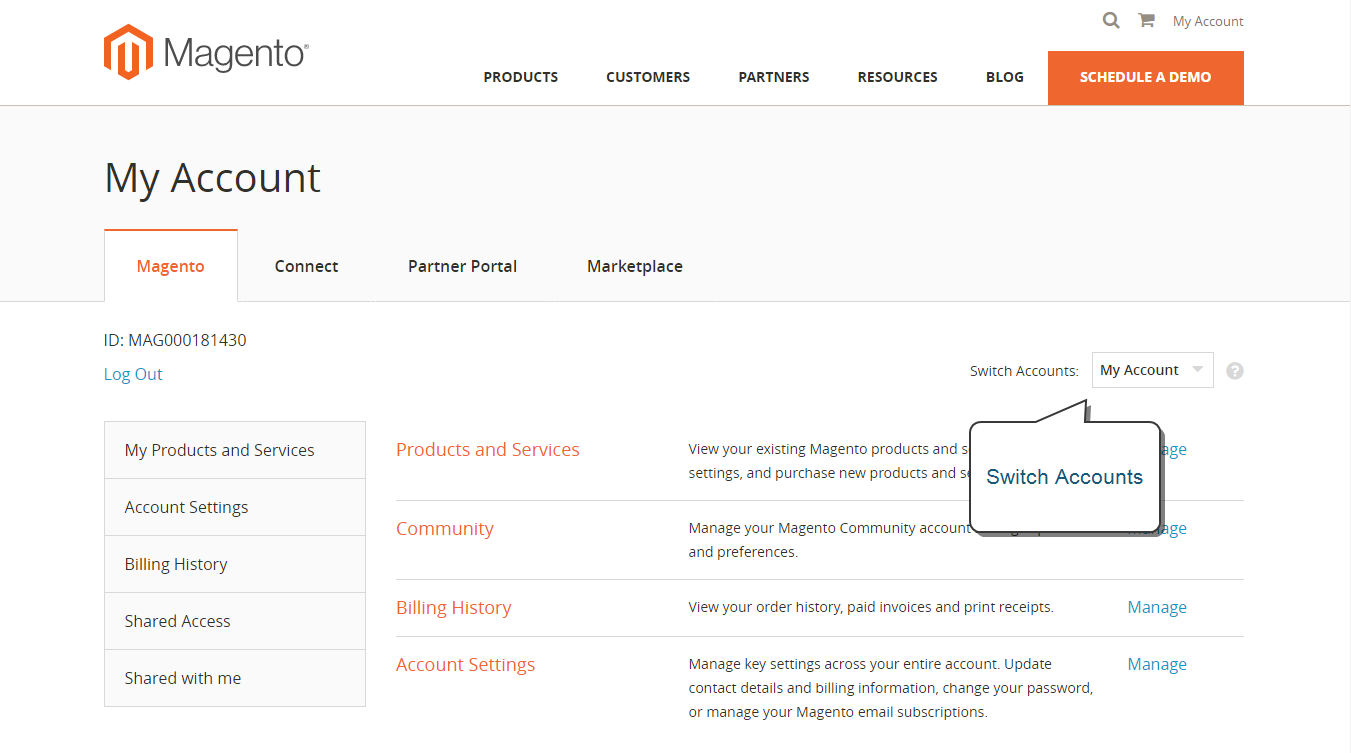
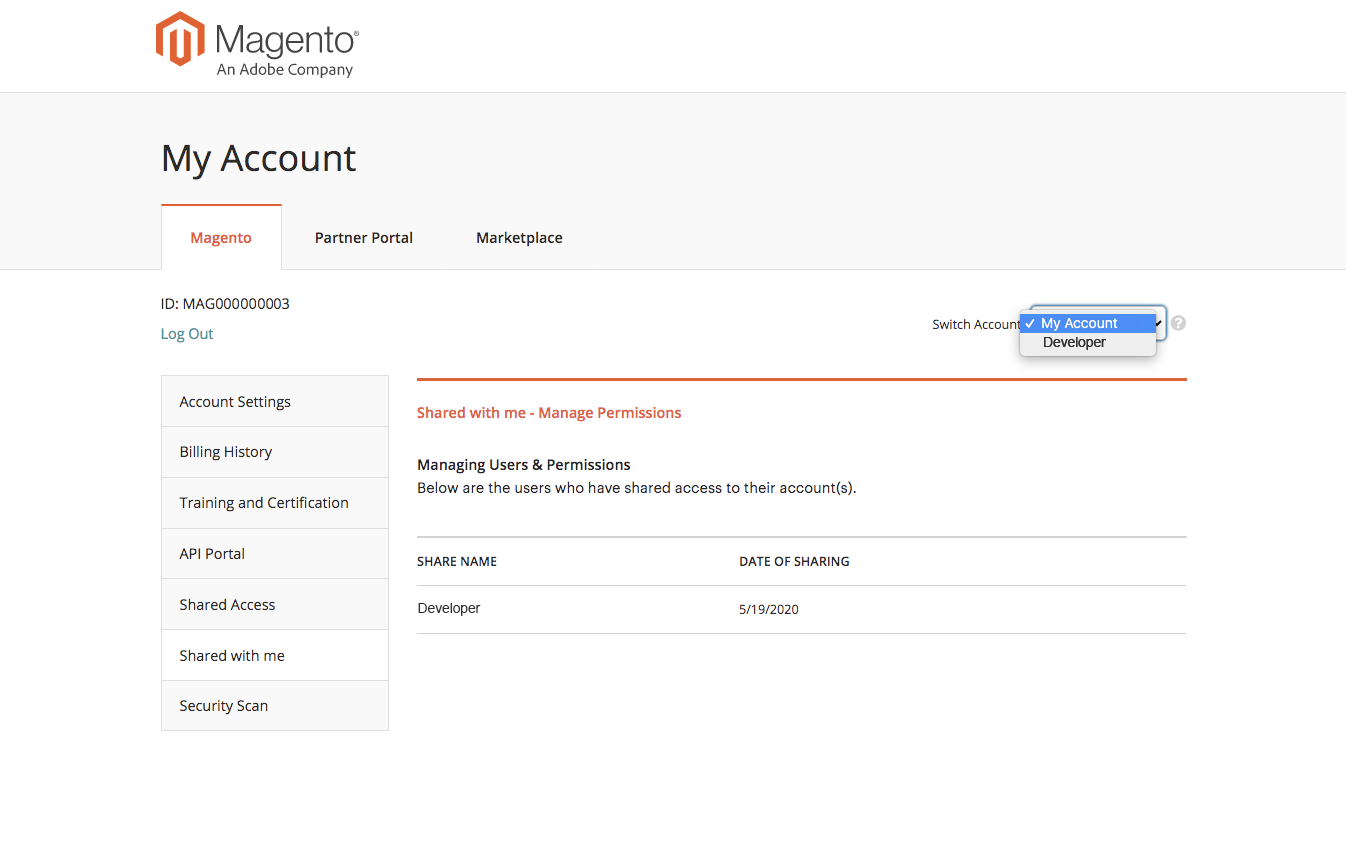
Shared account (#551)
* Updated screenshots

Magento account with Shared Access, Support options highlighted.

* Added step to connext to Support

Updated instructions to connect a shared account with Support.

* Misc edits

Reworked instrutions for change in workflow; updated screenshots

* New screenshots

New shared account screenshots

* Updated image

Updated account screenshot to show new shared user.

* Deleted old screenshot.

Deleted old screenshot, circa "Magento an ebay inc. company"

* New screenshot

With "Shared with me" tab and Switch Accounts control.

* Removed duplciate screenshot

Removed duplciate My Acount screenshot

* New screenshots

Show support tab and shared account.

* Updated screenshots

Updated screenshots.

* Misc updates

Reworked topic to include new screenshots and additional step to click the Support tab.

* Minor edits

1) . grammar - cladrified bullet point; 2) deleted blank line

* Added content

Added content from the Support KB.

* Update src/magento/magento-account-share.md

* Update src/magento/magento-account-share.md

diff --git a/src/magento/magento-account-share.md b/src/magento/magento-account-share.md
@@ -3,57 +3,92 @@ title: Sharing Your Account
 group: getting-started
 ---
 
-Your Magento account contains information that can be useful to trusted employees and service providers who help to manage your site. As the primary account holder, you have authority to grant limited access to your account to other Magento account holders. When your account is shared, all sensitive information—such as your billing history or credit card information—remains protected. It is not shared at any time with other users.
+Your Magento account contains information that you can make available to trusted employees and service providers who help manage your site. As the primary account holder, you have authority to grant limited access to other Magento account holders. Shared access can be revoked, but cannot be transferred from one user to another.
+
+The Magento Support team does not have access to the account and cannot set up shared access for you. Only the primary account holder with appropriate [permissions]({% link system/permissions.md %}) can set up shared access. When your account is shared, all sensitive information &#8212; such as your billing history or credit card information &#8212; remains protected and is not shared at any time with other users.
 
 {:.bs-callout-info}
-All actions taken by users with shared access to your account are your sole responsibility. Magento Inc. is not responsible for any actions taken by users to whom you grant shared account access.
+All actions taken by users with shared access are the sole responsibility of the primary account holder. Adobe is not responsible for any actions taken by users who have shared access to your account.
 
-![]({% link images/images/magento-account-shared.png %}){: .zoom}
+![]({% link images/images/magento-account-shared-access.png %}){: .zoom}
 _Shared Access_
 
-## To set up a shared account:
+## Set up a shared account
 
 1. Before you begin, get the following information from the Magento account of the **new user**:
 
-   - Account ID located in the upper-left corner of the Magento tab, just above the **Log Out** link.
-   - Email address associated with the account.
+   - The `Account ID` that is located in the upper-left corner of the Magento tab, just above the **Log Out** link.
+   - The `Email` address that is associated with the account.
 
 1. Log in to your [Magento account]({% link magento/magento-account.md %}).
 
-1. In the panel on the left, under **Shared Access**, choose **Add New User**. Then, do the following:
+1. In the left panel, click **Shared Access**. Then, click <span class="btn">Add New User</span>.
 
-   - Enter the **Acct ID** from the Magento account of the new user.
-   - Enter the **Email** address that is associated with the Magento account of the new user.
+   ![]({% link images/images/magento-account-shared-access-add-new-user.png %}){: .zoom}
+   _Add New User_
 
-1. In the **Shared Information** section, do the following:
+1. Under _New User Information_, do the following:
 
-   - Enter a **Sharename** to identify your shared account. Because the Sharename becomes an option in the Switch Accounts list, it should be something that the other person will recognize as your account.
+   - Enter the **Account ID** from the new user's Magento account.
+   - Enter the **Email** address that is associated with the new user's Magento account.
 
-   - To share your personal contact information, mark the checkbox of each item that you want to make available to the other person:
+   ![]({% link images/images/magento-account-shared-access-new-user-info.png %}){: .zoom}
+   _New User Information_
+
+1. Under _Shared Information_, do the following:
+
+   - Enter a **Share Name** to identify the shared account. The Share Name is for internal reference, and is visible only to you and the person with whom you share your account.
+   - If you want to share your personal contact information with the new user, enter the following:
 
       - Your Email
       - Your Phone
 
-1. In the **Grant Account Permissions** section, mark the checkbox of each Magento product and service that you want to share.
+1. Under _Grant Account Permissions_, select the checkbox of each Magento product and service that you want to share.
 
-1. When complete, click <span class="btn"> Create Shared Access </span>.
+   ![]({% link images/images/magento-account-shared-permissions-all.png %}){: .zoom}
+   _Grant Account Permissions_
 
-    You are notified when the new role is saved, and the new user record appears in the Manage Permissions section of the Shared Access page. Magento also sends an email invitation to the new user with instructions to access the shared account.
+1. When complete, click <span class="btn">Create Shared Access</span>.
 
-    ![]({% link images/images/magento-account-shared-manage-permissions.png %}){: .zoom}
-    _Manage Permissions_
+   The new user information appears in the Manage Permissions section of the Shared Access page, and an email invitation with instructions to access the shared account is sent to the new user.
 
-## To access a shared account:
+   ![]({% link images/images/magento-account-shared-manage-permissions.png %}){: .zoom}
+   _Manage Permissions_
 
-1. When you receive the invitation to a shared account, log in to your own Magento account.
+1. In the left panel of your account, click **Support** to establish the shared connection with Magento Support.
 
-    Your account dashboard has a new Switch Accounts control in the upper-right corner, with options for “My Account” and the name of the shared account.
+    ![]({% link images/images/magento-account-shared-support.png %}){: .zoom}
+    _Support_
+
+## Access a shared account
+
+The following instructions are written from the perspective of a shared user who receives an invitation to a shared account.
+
+1. When you receive an invitation to a shared account, follow the instructions in the email to log in to your own Magento account.
+
+   The left panel of your account has a new _Shared with me_ tab. The _Switch Accounts_ control in the upper-right corner has options for `My Account` and the name of the shared account.
+
+   ![]({% link images/images/magento-account-shared-with-me.png %}){: .zoom}
+   _Switch Accounts_
 
 1. To gain access to the shared account, set **Switch Accounts** to the name of the shared account.
 
-    The shared account displays a welcome message and contact information. The left panel includes only the items that you have permission to use.
+   ![]({% link images/images/magento-account-shared-switch.png %}){: .zoom}
+   _Switch to Shared Account_
 
-    ![]({% link images/images/magento-account-shared-switch.png %}){: .zoom}
+   The shared account displays a welcome message and contact information. The left panel includes only the items that you have permission to use.
+
+   ![]({% link images/images/magento-account-shared-switch.png %}){: .zoom}
     _Switch Accounts_
 
-1. When you are ready to return to your own account, set **Switch Accounts** to “My Account”.
+1. To return to your own account, set **Switch Accounts** to `My Account`.
+
+## Revoke shared access
+
+1. Sign in to your Magento account.
+
+1. In the left panel, click **Shared Access**.
+
+1. Find the account to be revoked under _Managing Users & Permissions_ and click **Delete**.
+
+1. When prompted to confirm, click <span class="btn">Delete User</span>.
